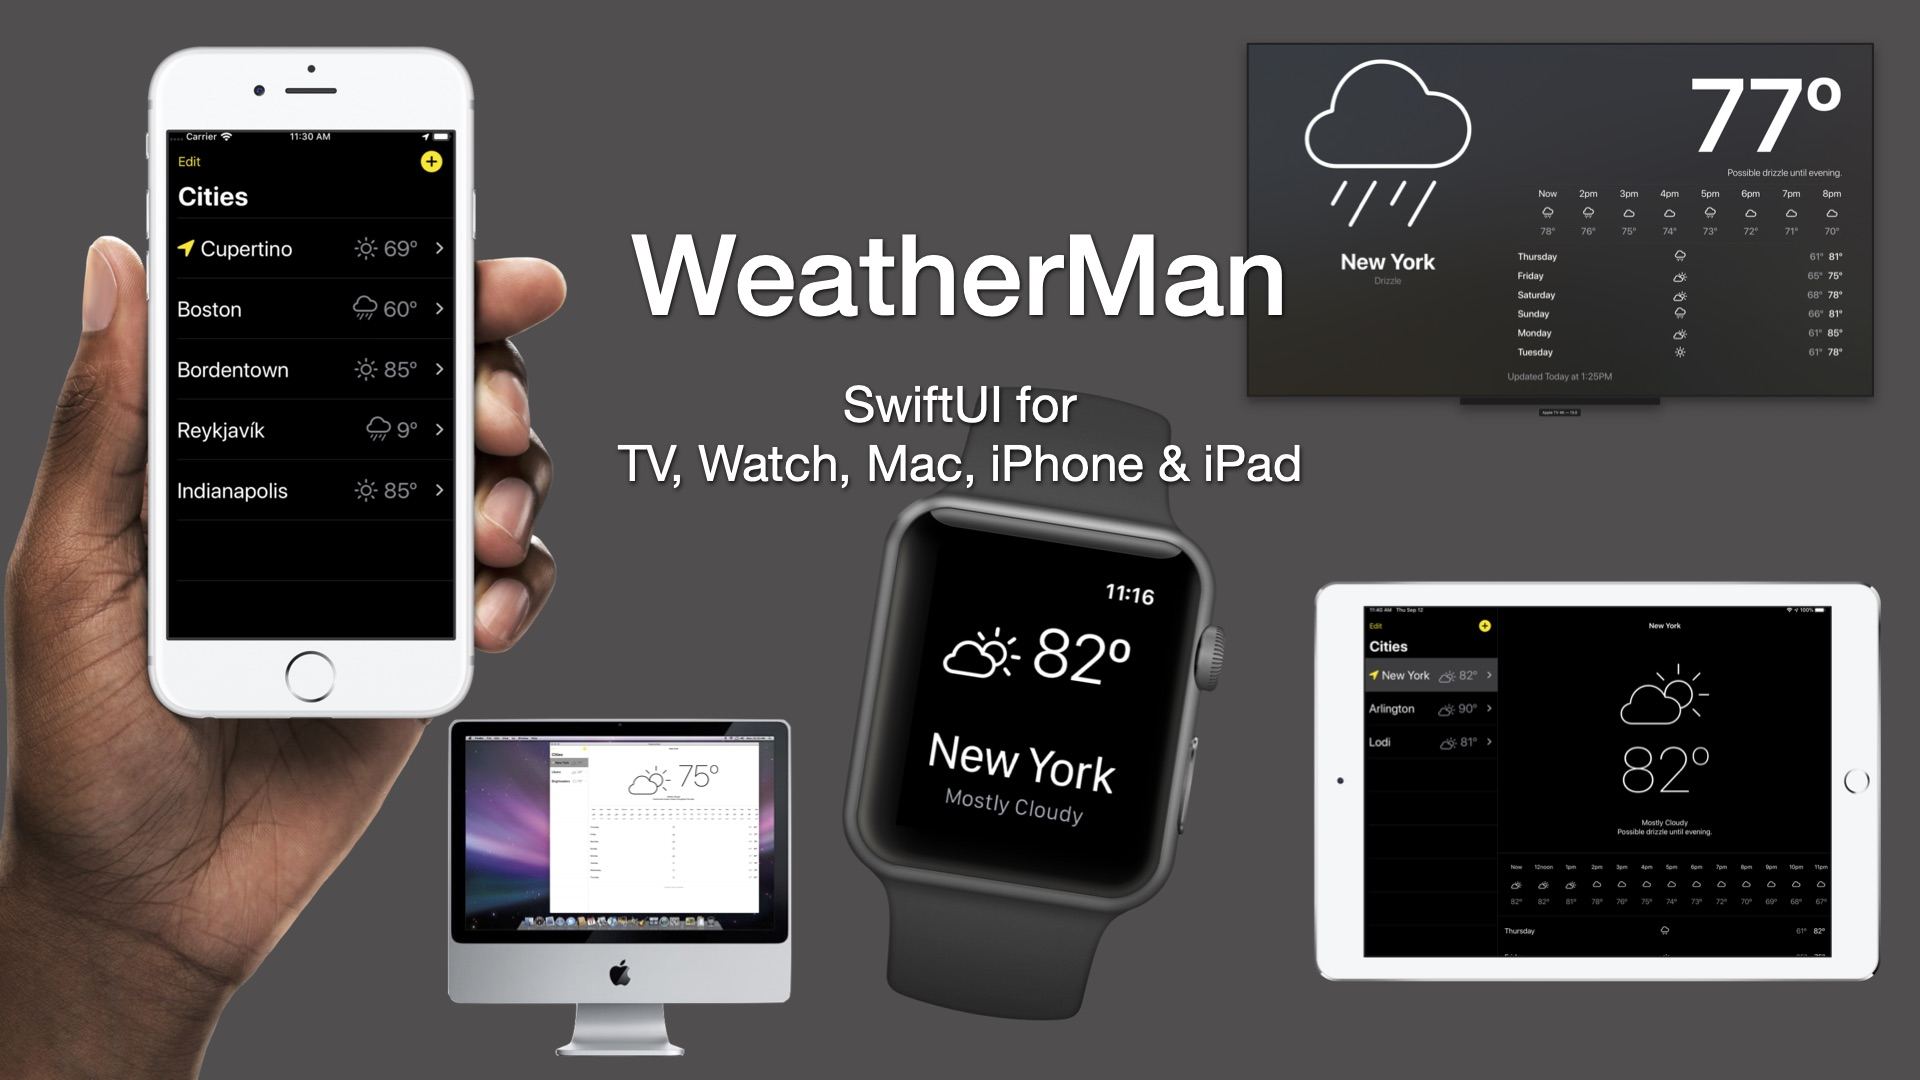
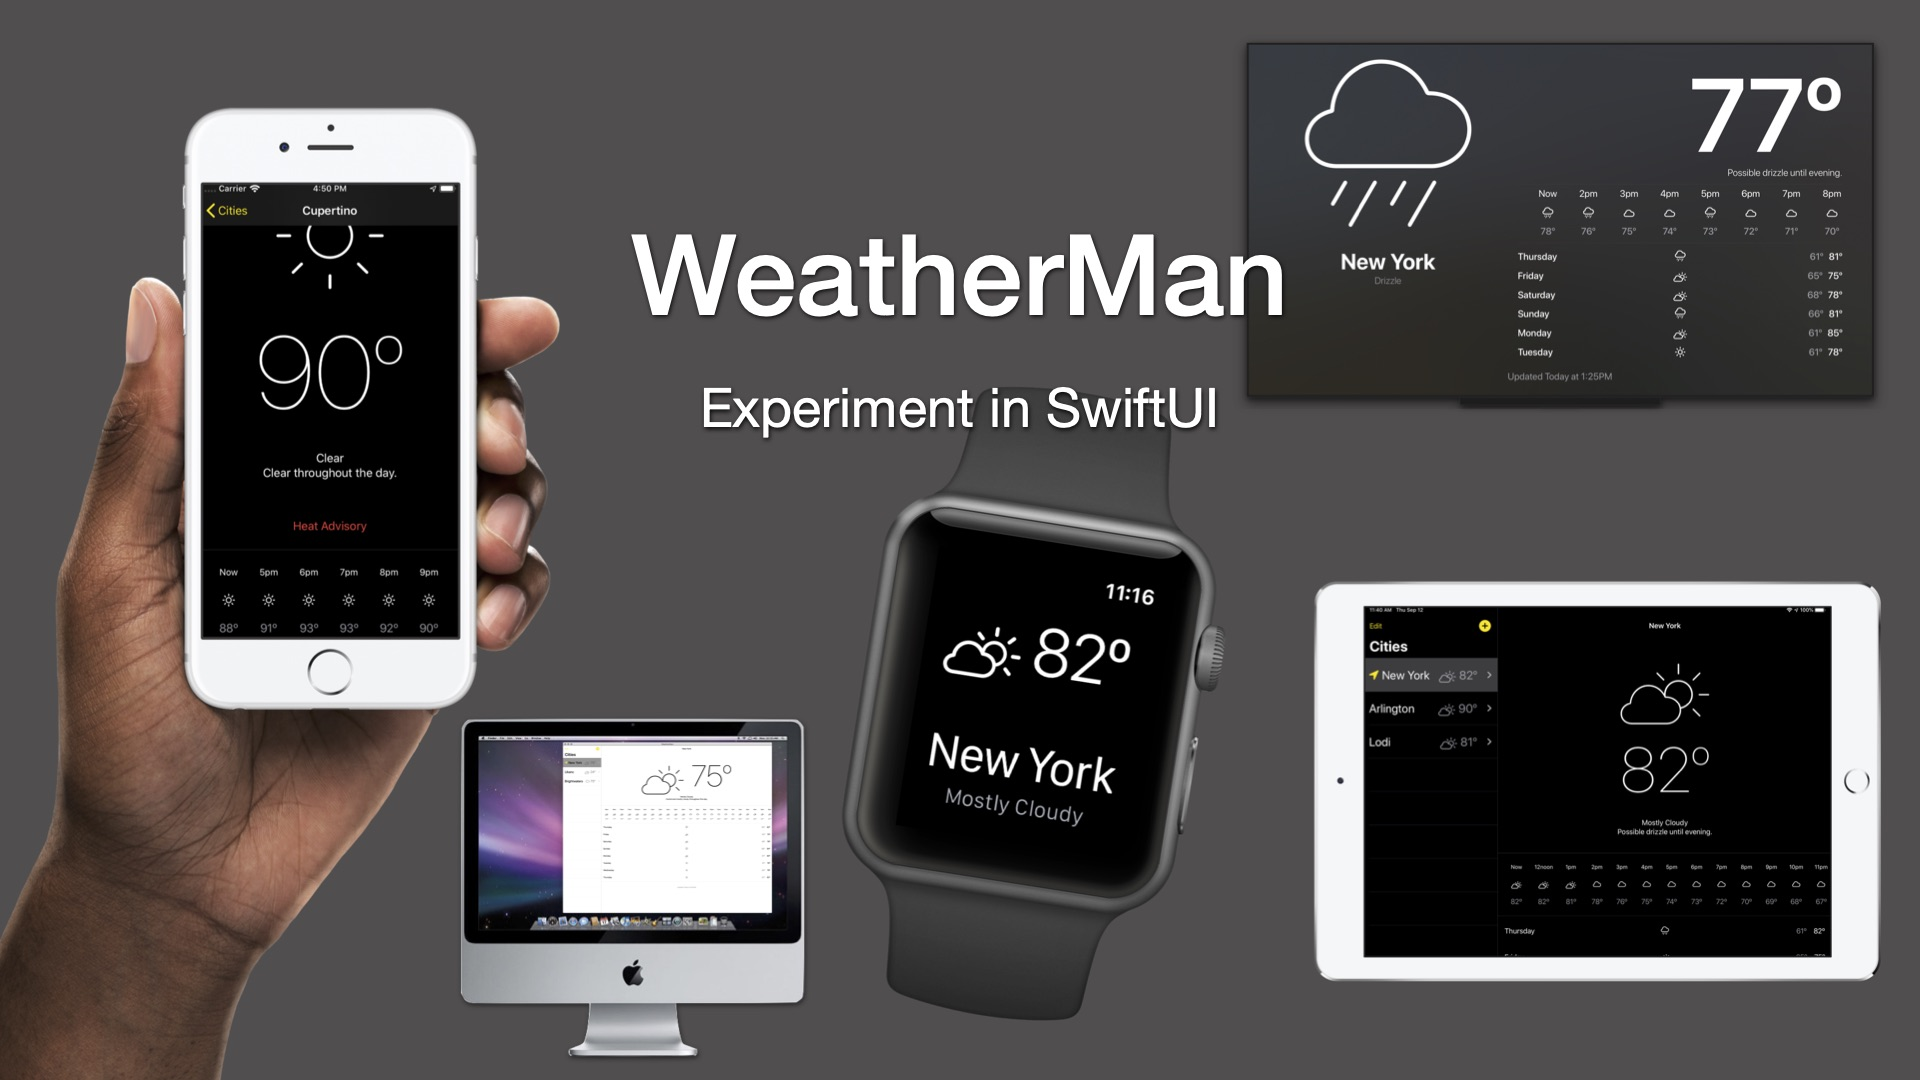
alerts progress.

diff --git a/WeatherMan/View/WeatherView/CityWeatherView.swift b/WeatherMan/View/WeatherView/CityWeatherView.swift
@@ -11,7 +11,8 @@ import SwiftUI
 struct CityWeatherView : View {
     
     @ObservedObject var city: City
-    
+    @State private var isPresenting: Bool = false
+
     func formattedTime(city: City) -> String {
         guard let weather = city.weather else {
             return "--º"
@@ -29,12 +30,25 @@ struct CityWeatherView : View {
     var body: some View {
         ScrollView(showsIndicators: false) {
             Section {
-                ForEach(city.weather?.alerts ?? []) { alert in
-                    Text("\(alert.title)")
-                        .foregroundColor(.red)
-                }
                 CityHeaderView(city: city)
                     .padding()
+                
+                ForEach(city.weather?.alerts ?? []) { alert in
+                    Button(action: {
+                        self.$isPresenting.wrappedValue.toggle()
+                    }) {
+                        HStack {
+                            Image(systemName: "chevron.right.circle")
+                                .rotationEffect(.degrees(self.isPresenting ? 90 : 0))
+                            Text("\(alert.title)")
+                        }
+                        .foregroundColor(.red)
+                    }
+                    Text(self.isPresenting ? "\(alert.description)" : "")
+                        .foregroundColor(.secondary)
+                        .fixedSize(horizontal: false, vertical: true)
+                        .padding([.leading,.trailing])
+                }
             }
             .padding()
             

diff --git a/WatchWeatherMan Extension/WatchCityWeatherView.swift b/WatchWeatherMan Extension/WatchCityWeatherView.swift
@@ -12,6 +12,8 @@ import Combine
 struct WatchCityWeatherView : View {
     
     @ObservedObject var city: City
+    
+    @State private var isPresenting: Bool = false
 
     func prefixList() -> Array<DailyWeather> {
         guard let weather = city.weather else {
@@ -57,6 +59,15 @@ struct WatchCityWeatherView : View {
                 Divider()
 
                 VStack {
+                    ForEach(city.weather?.alerts ?? []) { alert in
+                        Text("\(alert.title)")
+                            .foregroundColor(.red)
+                        Text(self.isPresenting ? "\(alert.description)" : "")
+                            .foregroundColor(.secondary)
+                            .fixedSize(horizontal: false, vertical: true)
+                            .padding([.leading,.trailing])
+                    }
+
                     Text("\(city.longerSummary)")
                         .fontWeight(.light)
                         .multilineTextAlignment(.center)

diff --git a/TVWeatherMan/TVCityWeatherView.swift b/TVWeatherMan/TVCityWeatherView.swift
@@ -33,6 +33,7 @@ struct CurrentDateView : View {
 struct WeatherIconStack : View {
     
     @ObservedObject var city: City
+    @State private var isPresenting: Bool = false
 
     var body: some View {
         VStack(alignment: .trailing) {
@@ -51,6 +52,15 @@ struct WeatherIconStack : View {
                         .fontWeight(.light)
                         .foregroundColor(.secondary)
                         .multilineTextAlignment(.center)
+
+                    ForEach(city.weather?.alerts ?? []) { alert in
+                        Text("\(alert.title)")
+                            .foregroundColor(.red)
+                        Text(self.isPresenting ? "\(alert.description)" : "")
+                            .foregroundColor(.secondary)
+                            .fixedSize(horizontal: false, vertical: true)
+                            .padding([.leading,.trailing])
+                    }
                 }
                 .frame(width: 680)
             }

diff --git a/WeatherMan/View/WeatherView/CityHeaderView.swift b/WeatherMan/View/WeatherView/CityHeaderView.swift
@@ -14,12 +14,12 @@ struct Tall: View {
     var body: some View {
         VStack() {
             city.weather?.current.icon.glyph
-                .font(.system(size: 150, weight: .ultraLight))
+                .font(.system(size: 120, weight: .ultraLight))
                 .imageScale(.medium)
                 .padding(.top)
 
             Text(city.temperatureFormatted)
-                .font(.system(size: 150))
+                .font(.system(size: 120))
                 .fontWeight(.ultraLight)
         }
         .fixedSize(horizontal: true, vertical: false)

diff --git a/WeatherMan/Location.swift b/WeatherMan/Location.swift
@@ -91,7 +91,7 @@ class Location: NSObject, CLLocationManagerDelegate, ObservableObject, Identifia
                     print("located \(localCity.name)")
                     
                     guard let city = cityStore.cities.first else {
-                        cityStore.cities.insert(localCity, at: 0)
+                        cityStore.cities.append(localCity)
                         return
                     }
                     

diff --git a/WeatherMan/Model/Weather.swift b/WeatherMan/Model/Weather.swift
@@ -16,10 +16,14 @@ struct WeatherAlert: Codable, Identifiable {
     
     var time: Date
     var title: String
+    var description: String
+    var uri: String
 
     enum CodingKeys: String, CodingKey {
         case time = "time"
         case title = "title"
+        case uri = "uri"
+        case description = "description"
     }
     
 }
